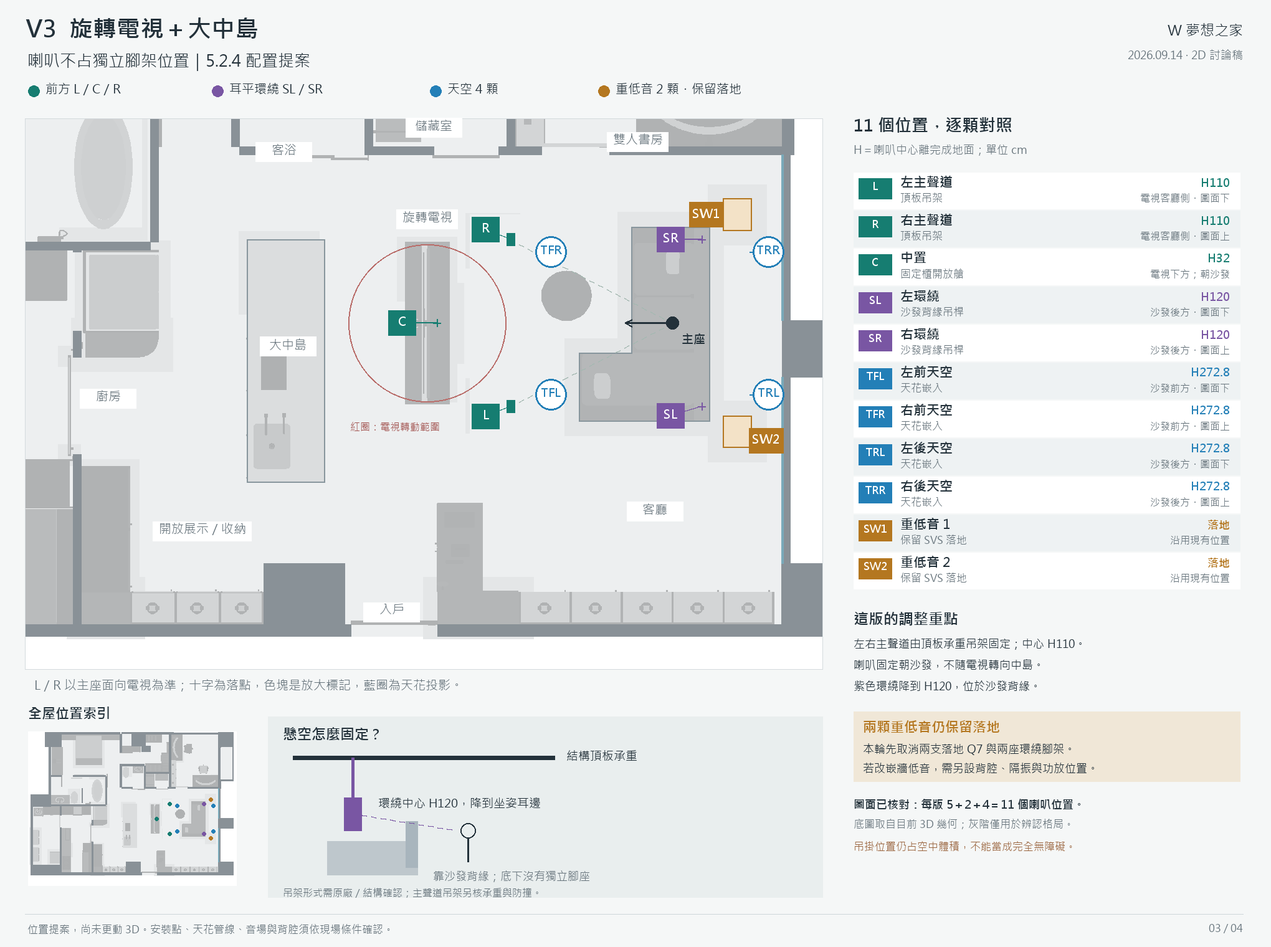
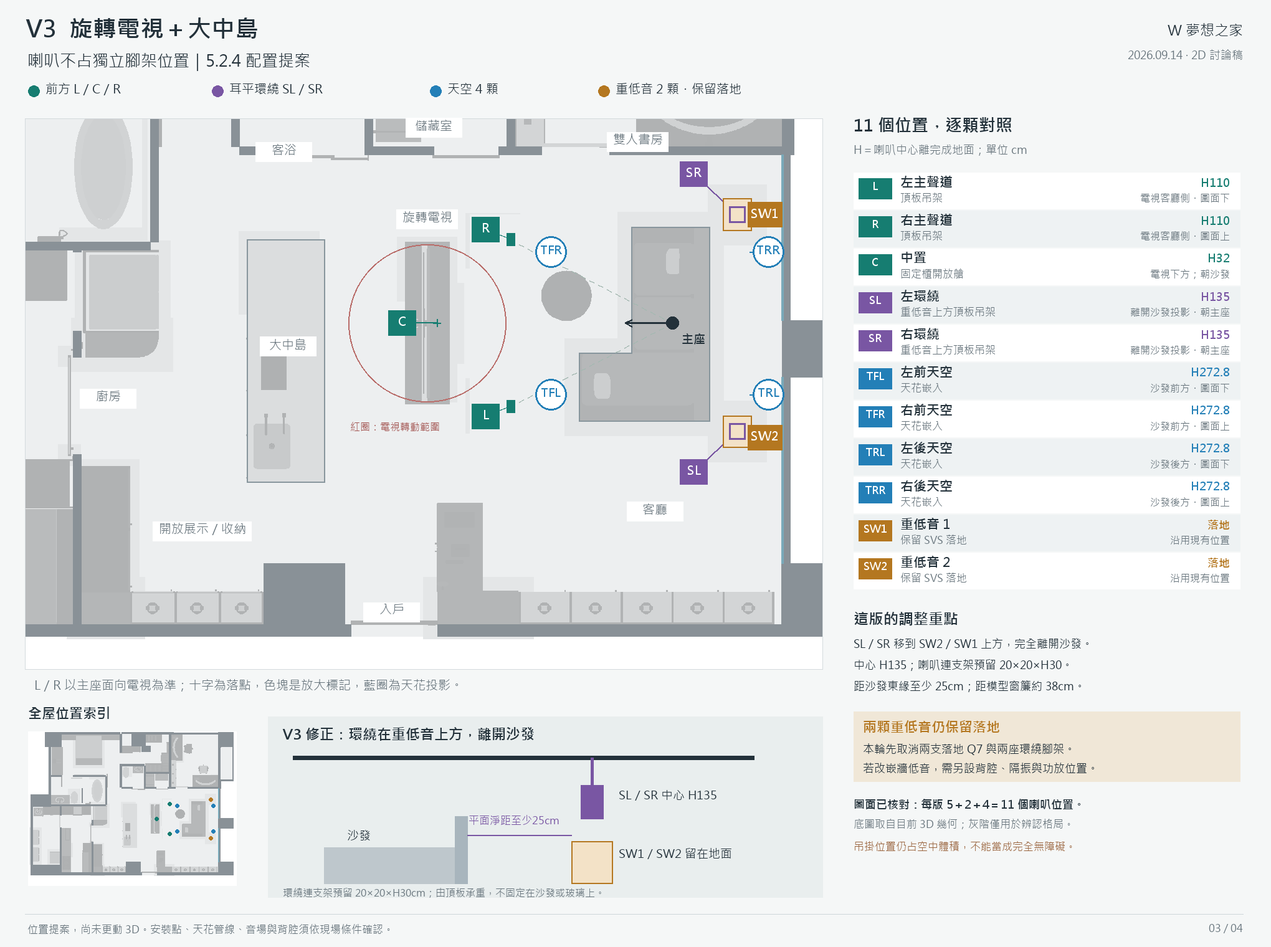
Move V3 proposed surrounds clear of sofa footprint

diff --git a/提案/20260914喇叭配置/index.html b/提案/20260914喇叭配置/index.html
@@ -1,7 +1,7 @@
 <!doctype html><html lang="zh-Hant"><meta charset="utf-8"><meta name="viewport" content="width=device-width, initial-scale=1"><title>四版喇叭配置提案｜W夢想之家</title>
 <style>*{box-sizing:border-box}body{margin:0;background:#10171b;color:#e2e9eb;font-family:system-ui,"Microsoft JhengHei",sans-serif}main{max-width:1800px;margin:auto;padding:28px}h1{font-size:clamp(25px,3vw,38px);margin:10px 0}p{color:#b8c8cc;line-height:1.7}nav{display:flex;gap:9px;flex-wrap:wrap;margin:24px 0}button{padding:13px 18px;border:1px solid #50616b;border-radius:8px;background:#202b32;color:inherit;cursor:pointer;font:inherit}button[aria-pressed=true]{background:#bcd6cf;color:#173c33;border-color:#bcd6cf}figure{margin:0}figure[hidden]{display:none}img{width:100%;height:auto;border-radius:10px}a{color:#8fccc4}figcaption{display:flex;gap:24px;padding:16px 0}aside{padding:16px 22px;background:#242f36;border-radius:10px;margin:22px 0;line-height:1.8}details{margin:22px 0}summary{cursor:pointer;padding:12px}.table{overflow:auto}table{border-collapse:collapse;min-width:900px;width:100%}td,th{text-align:left;padding:10px;border-bottom:1px solid #3a454b}footer{line-height:1.9;margin-top:30px}@media(max-width:650px){main{padding:14px}nav button{font-size:14px}}@media print{body{background:white;color:black}nav,figcaption,details,footer,aside{display:none}figure[hidden]{display:block}figure{break-after:page}}</style>
 <main><a href="../../index.html">← 回到 3D 設計</a><h1>每個版本，每一顆喇叭的位置</h1><p>四張 2D 圖各有 11 個位置：左右主聲道＋中置＋兩顆環繞＋四顆天空＋兩顆重低音。<br>點圖可開啟原尺寸；這是待討論的擺位提案，現有 3D 尚未更換設備。</p><nav aria-label="版本"><button type="button" data-v="1" aria-pressed="true">V1 圓弧中島酒吧＋玄關矮櫃</button><button type="button" data-v="2" aria-pressed="false">V2 旋轉電視＋小中島</button><button type="button" data-v="3" aria-pressed="false">V3 旋轉電視＋大中島</button><button type="button" data-v="4" aria-pressed="false">V4 大中島</button></nav><figure id="v1" ><a href="V1-喇叭配置.png" target="_blank"><img src="V1-喇叭配置.png" width="2040" height="1520" alt="V1 圓弧中島酒吧＋玄關矮櫃，11個喇叭完整位置與安裝方式" ></a><figcaption><a href="V1-喇叭配置.png" download>下載 V1 PNG</a><a href="V1-喇叭配置.svg" download>下載可放大 SVG</a></figcaption></figure><figure id="v2" hidden><a href="V2-喇叭配置.png" target="_blank"><img src="V2-喇叭配置.png" width="2040" height="1520" alt="V2 旋轉電視＋小中島，11個喇叭完整位置與安裝方式" loading=lazy></a><figcaption><a href="V2-喇叭配置.png" download>下載 V2 PNG</a><a href="V2-喇叭配置.svg" download>下載可放大 SVG</a></figcaption></figure><figure id="v3" hidden><a href="V3-喇叭配置.png" target="_blank"><img src="V3-喇叭配置.png" width="2040" height="1520" alt="V3 旋轉電視＋大中島，11個喇叭完整位置與安裝方式" loading=lazy></a><figcaption><a href="V3-喇叭配置.png" download>下載 V3 PNG</a><a href="V3-喇叭配置.svg" download>下載可放大 SVG</a></figcaption></figure><figure id="v4" hidden><a href="V4-喇叭配置.png" target="_blank"><img src="V4-喇叭配置.png" width="2040" height="1520" alt="V4 大中島，11個喇叭完整位置與安裝方式" loading=lazy></a><figcaption><a href="V4-喇叭配置.png" download>下載 V4 PNG</a><a href="V4-喇叭配置.svg" download>下載可放大 SVG</a></figcaption></figure>
-<aside><strong>先取消四個獨立落地腳座位置。</strong>兩顆 SVS 重低音仍保留落地，圖中為橘色 SW1／SW2。<br>落地玻璃不能當承重牆，因此紫色環繞使用頂板吊桿，降到沙發耳邊；藍色天空聲道仍在天花板。V2／V3 綠色主聲道也需獨立承重吊架，固定朝沙發。<br>V1／V4 的嵌入式主聲道需要另外設計裝修層及背腔；不在結構牆直接挖洞。中置仍為開放櫃提案，最終選型需一併核對前方三聲道搭配。</aside>
-<details><summary>全部 44 個位置與高度表</summary><p>座標沿目前模型：X 向圖面右、Y 向圖面下；單位 cm。H 為中心高度，SW 的 0 表示底部落地。符號有放大，十字落點才是配置中心。</p><div class="table"><table><thead><tr><th>版本</th><th>聲道</th><th>X, Y</th><th>H</th><th>安裝</th><th>位置</th></tr></thead><tbody><tr><td>V1</td><td>L 左主聲道</td><td>1062, 944</td><td>105</td><td>南牆裝修層嵌入</td><td>電視左方・圖面右</td></tr><tr><td>V1</td><td>R 右主聲道</td><td>773, 944</td><td>105</td><td>南牆裝修層嵌入</td><td>電視右方・圖面左</td></tr><tr><td>V1</td><td>C 中置</td><td>917.5, 920</td><td>32</td><td>固定櫃開放艙</td><td>電視下方；朝沙發</td></tr><tr><td>V1</td><td>SL 左環繞</td><td>1020, 495</td><td>120</td><td>沙發背緣吊桿</td><td>靠窗側背角</td></tr><tr><td>V1</td><td>SR 右環繞</td><td>812, 495</td><td>120</td><td>沙發背緣吊桿</td><td>靠中島側背角</td></tr><tr><td>V1</td><td>TFL 左前天空</td><td>1005, 700</td><td>272.8</td><td>天花嵌入</td><td>沙發前方・圖面右</td></tr><tr><td>V1</td><td>TFR 右前天空</td><td>830, 700</td><td>272.8</td><td>天花嵌入</td><td>沙發前方・圖面左</td></tr><tr><td>V1</td><td>TRL 左後天空</td><td>1005, 415</td><td>272.8</td><td>天花嵌入</td><td>沙發後方・圖面右</td></tr><tr><td>V1</td><td>TRR 右後天空</td><td>830, 415</td><td>272.8</td><td>天花嵌入</td><td>沙發後方・圖面左</td></tr><tr><td>V1</td><td>SW1 重低音 1</td><td>788, 837</td><td>0</td><td>保留 SVS 落地</td><td>沿用現有位置</td></tr><tr><td>V1</td><td>SW2 重低音 2</td><td>1057, 820</td><td>0</td><td>保留 SVS 落地</td><td>沿用現有位置</td></tr><tr><td>V2</td><td>L 左主聲道</td><td>750, 663</td><td>110</td><td>頂板吊架</td><td>電視客廳側・圖面下</td></tr><tr><td>V2</td><td>R 右主聲道</td><td>750, 457</td><td>110</td><td>頂板吊架</td><td>電視客廳側・圖面上</td></tr><tr><td>V2</td><td>C 中置</td><td>659.35, 560</td><td>32</td><td>固定櫃開放艙</td><td>電視下方；朝沙發</td></tr><tr><td>V2</td><td>SL 左環繞</td><td>986, 686</td><td>120</td><td>沙發背緣吊桿</td><td>沙發後方・圖面下</td></tr><tr><td>V2</td><td>SR 右環繞</td><td>986, 480</td><td>120</td><td>沙發背緣吊桿</td><td>沙發後方・圖面上</td></tr><tr><td>V2</td><td>TFL 左前天空</td><td>800, 648</td><td>272.8</td><td>天花嵌入</td><td>沙發前方・圖面下</td></tr><tr><td>V2</td><td>TFR 右前天空</td><td>800, 472</td><td>272.8</td><td>天花嵌入</td><td>沙發前方・圖面上</td></tr><tr><td>V2</td><td>TRL 左後天空</td><td>1050, 648</td><td>272.8</td><td>天花嵌入</td><td>沙發後方・圖面下</td></tr><tr><td>V2</td><td>TRR 右後天空</td><td>1050, 472</td><td>272.8</td><td>天花嵌入</td><td>沙發後方・圖面上</td></tr><tr><td>V2</td><td>SW1 重低音 1</td><td>799, 800</td><td>0</td><td>保留 SVS 落地</td><td>沿用現有位置</td></tr><tr><td>V2</td><td>SW2 重低音 2</td><td>1040, 814</td><td>0</td><td>保留 SVS 落地</td><td>沿用現有位置</td></tr><tr><td>V3</td><td>L 左主聲道</td><td>750, 686</td><td>110</td><td>頂板吊架</td><td>電視客廳側・圖面下</td></tr><tr><td>V3</td><td>R 右主聲道</td><td>750, 480</td><td>110</td><td>頂板吊架</td><td>電視客廳側・圖面上</td></tr><tr><td>V3</td><td>C 中置</td><td>659.35, 583</td><td>32</td><td>固定櫃開放艙</td><td>電視下方；朝沙發</td></tr><tr><td>V3</td><td>SL 左環繞</td><td>986, 686</td><td>120</td><td>沙發背緣吊桿</td><td>沙發後方・圖面下</td></tr><tr><td>V3</td><td>SR 右環繞</td><td>986, 480</td><td>120</td><td>沙發背緣吊桿</td><td>沙發後方・圖面上</td></tr><tr><td>V3</td><td>TFL 左前天空</td><td>800, 671</td><td>272.8</td><td>天花嵌入</td><td>沙發前方・圖面下</td></tr><tr><td>V3</td><td>TFR 右前天空</td><td>800, 495</td><td>272.8</td><td>天花嵌入</td><td>沙發前方・圖面上</td></tr><tr><td>V3</td><td>TRL 左後天空</td><td>1050, 671</td><td>272.8</td><td>天花嵌入</td><td>沙發後方・圖面下</td></tr><tr><td>V3</td><td>TRR 右後天空</td><td>1050, 495</td><td>272.8</td><td>天花嵌入</td><td>沙發後方・圖面上</td></tr><tr><td>V3</td><td>SW1 重低音 1</td><td>1030, 449</td><td>0</td><td>保留 SVS 落地</td><td>沿用現有位置</td></tr><tr><td>V3</td><td>SW2 重低音 2</td><td>1030, 717</td><td>0</td><td>保留 SVS 落地</td><td>沿用現有位置</td></tr><tr><td>V4</td><td>L 左主聲道</td><td>1062, 944</td><td>105</td><td>南牆裝修層嵌入</td><td>電視左方・圖面右</td></tr><tr><td>V4</td><td>R 右主聲道</td><td>773, 944</td><td>105</td><td>南牆裝修層嵌入</td><td>電視右方・圖面左</td></tr><tr><td>V4</td><td>C 中置</td><td>917.5, 920</td><td>32</td><td>固定櫃開放艙</td><td>電視下方；朝沙發</td></tr><tr><td>V4</td><td>SL 左環繞</td><td>1020, 545</td><td>120</td><td>沙發背緣吊桿</td><td>靠窗側背角</td></tr><tr><td>V4</td><td>SR 右環繞</td><td>812, 545</td><td>120</td><td>沙發背緣吊桿</td><td>靠中島側背角</td></tr><tr><td>V4</td><td>TFL 左前天空</td><td>1005, 775</td><td>272.8</td><td>天花嵌入</td><td>沙發前方・圖面右</td></tr><tr><td>V4</td><td>TFR 右前天空</td><td>830, 775</td><td>272.8</td><td>天花嵌入</td><td>沙發前方・圖面左</td></tr><tr><td>V4</td><td>TRL 左後天空</td><td>1005, 425</td><td>272.8</td><td>天花嵌入</td><td>沙發後方・圖面右</td></tr><tr><td>V4</td><td>TRR 右後天空</td><td>830, 425</td><td>272.8</td><td>天花嵌入</td><td>沙發後方・圖面左</td></tr><tr><td>V4</td><td>SW1 重低音 1</td><td>788, 929</td><td>0</td><td>保留 SVS 落地</td><td>沿用現有位置</td></tr><tr><td>V4</td><td>SW2 重低音 2</td><td>1055, 929</td><td>0</td><td>保留 SVS 落地</td><td>沿用現有位置</td></tr></tbody></table></div></details>
+<aside><strong>V3 已修正：</strong>SL／SR 已移出沙發投影，分別吊在 SW2／SW1 上方，中心 H135。<a href="V3-環繞位置修正.png">查看平面淨距與側面高度</a>。<br><strong>先取消四個獨立落地腳座位置。</strong>兩顆 SVS 重低音仍保留落地，圖中為橘色 SW1／SW2。<br>落地玻璃不能當承重牆，因此紫色環繞使用頂板吊架；V3 移至沙發外側的低音設備區，其他版本維持原討論稿。藍色天空聲道仍在天花板。V2／V3 綠色主聲道也需獨立承重吊架，固定朝沙發。<br>V1／V4 的嵌入式主聲道需要另外設計裝修層及背腔；不在結構牆直接挖洞。中置仍為開放櫃提案，最終選型需一併核對前方三聲道搭配。</aside>
+<details><summary>全部 44 個位置與高度表</summary><p>座標沿目前模型：X 向圖面右、Y 向圖面下；單位 cm。H 為中心高度，SW 的 0 表示底部落地。符號有放大，十字落點才是配置中心。</p><div class="table"><table><thead><tr><th>版本</th><th>聲道</th><th>X, Y</th><th>H</th><th>安裝</th><th>位置</th></tr></thead><tbody><tr><td>V1</td><td>L 左主聲道</td><td>1062, 944</td><td>105</td><td>南牆裝修層嵌入</td><td>電視左方・圖面右</td></tr><tr><td>V1</td><td>R 右主聲道</td><td>773, 944</td><td>105</td><td>南牆裝修層嵌入</td><td>電視右方・圖面左</td></tr><tr><td>V1</td><td>C 中置</td><td>917.5, 920</td><td>32</td><td>固定櫃開放艙</td><td>電視下方；朝沙發</td></tr><tr><td>V1</td><td>SL 左環繞</td><td>1020, 495</td><td>120</td><td>沙發背緣吊桿</td><td>靠窗側背角</td></tr><tr><td>V1</td><td>SR 右環繞</td><td>812, 495</td><td>120</td><td>沙發背緣吊桿</td><td>靠中島側背角</td></tr><tr><td>V1</td><td>TFL 左前天空</td><td>1005, 700</td><td>272.8</td><td>天花嵌入</td><td>沙發前方・圖面右</td></tr><tr><td>V1</td><td>TFR 右前天空</td><td>830, 700</td><td>272.8</td><td>天花嵌入</td><td>沙發前方・圖面左</td></tr><tr><td>V1</td><td>TRL 左後天空</td><td>1005, 415</td><td>272.8</td><td>天花嵌入</td><td>沙發後方・圖面右</td></tr><tr><td>V1</td><td>TRR 右後天空</td><td>830, 415</td><td>272.8</td><td>天花嵌入</td><td>沙發後方・圖面左</td></tr><tr><td>V1</td><td>SW1 重低音 1</td><td>788, 837</td><td>0</td><td>保留 SVS 落地</td><td>沿用現有位置</td></tr><tr><td>V1</td><td>SW2 重低音 2</td><td>1057, 820</td><td>0</td><td>保留 SVS 落地</td><td>沿用現有位置</td></tr><tr><td>V2</td><td>L 左主聲道</td><td>750, 663</td><td>110</td><td>頂板吊架</td><td>電視客廳側・圖面下</td></tr><tr><td>V2</td><td>R 右主聲道</td><td>750, 457</td><td>110</td><td>頂板吊架</td><td>電視客廳側・圖面上</td></tr><tr><td>V2</td><td>C 中置</td><td>659.35, 560</td><td>32</td><td>固定櫃開放艙</td><td>電視下方；朝沙發</td></tr><tr><td>V2</td><td>SL 左環繞</td><td>986, 686</td><td>120</td><td>沙發背緣吊桿</td><td>沙發後方・圖面下</td></tr><tr><td>V2</td><td>SR 右環繞</td><td>986, 480</td><td>120</td><td>沙發背緣吊桿</td><td>沙發後方・圖面上</td></tr><tr><td>V2</td><td>TFL 左前天空</td><td>800, 648</td><td>272.8</td><td>天花嵌入</td><td>沙發前方・圖面下</td></tr><tr><td>V2</td><td>TFR 右前天空</td><td>800, 472</td><td>272.8</td><td>天花嵌入</td><td>沙發前方・圖面上</td></tr><tr><td>V2</td><td>TRL 左後天空</td><td>1050, 648</td><td>272.8</td><td>天花嵌入</td><td>沙發後方・圖面下</td></tr><tr><td>V2</td><td>TRR 右後天空</td><td>1050, 472</td><td>272.8</td><td>天花嵌入</td><td>沙發後方・圖面上</td></tr><tr><td>V2</td><td>SW1 重低音 1</td><td>799, 800</td><td>0</td><td>保留 SVS 落地</td><td>沿用現有位置</td></tr><tr><td>V2</td><td>SW2 重低音 2</td><td>1040, 814</td><td>0</td><td>保留 SVS 落地</td><td>沿用現有位置</td></tr><tr><td>V3</td><td>L 左主聲道</td><td>750, 686</td><td>110</td><td>頂板吊架</td><td>電視客廳側・圖面下</td></tr><tr><td>V3</td><td>R 右主聲道</td><td>750, 480</td><td>110</td><td>頂板吊架</td><td>電視客廳側・圖面上</td></tr><tr><td>V3</td><td>C 中置</td><td>659.35, 583</td><td>32</td><td>固定櫃開放艙</td><td>電視下方；朝沙發</td></tr><tr><td>V3</td><td>SL 左環繞</td><td>1030, 717</td><td>135</td><td>重低音上方頂板吊架</td><td>離開沙發投影・朝主座</td></tr><tr><td>V3</td><td>SR 右環繞</td><td>1030, 449</td><td>135</td><td>重低音上方頂板吊架</td><td>離開沙發投影・朝主座</td></tr><tr><td>V3</td><td>TFL 左前天空</td><td>800, 671</td><td>272.8</td><td>天花嵌入</td><td>沙發前方・圖面下</td></tr><tr><td>V3</td><td>TFR 右前天空</td><td>800, 495</td><td>272.8</td><td>天花嵌入</td><td>沙發前方・圖面上</td></tr><tr><td>V3</td><td>TRL 左後天空</td><td>1050, 671</td><td>272.8</td><td>天花嵌入</td><td>沙發後方・圖面下</td></tr><tr><td>V3</td><td>TRR 右後天空</td><td>1050, 495</td><td>272.8</td><td>天花嵌入</td><td>沙發後方・圖面上</td></tr><tr><td>V3</td><td>SW1 重低音 1</td><td>1030, 449</td><td>0</td><td>保留 SVS 落地</td><td>沿用現有位置</td></tr><tr><td>V3</td><td>SW2 重低音 2</td><td>1030, 717</td><td>0</td><td>保留 SVS 落地</td><td>沿用現有位置</td></tr><tr><td>V4</td><td>L 左主聲道</td><td>1062, 944</td><td>105</td><td>南牆裝修層嵌入</td><td>電視左方・圖面右</td></tr><tr><td>V4</td><td>R 右主聲道</td><td>773, 944</td><td>105</td><td>南牆裝修層嵌入</td><td>電視右方・圖面左</td></tr><tr><td>V4</td><td>C 中置</td><td>917.5, 920</td><td>32</td><td>固定櫃開放艙</td><td>電視下方；朝沙發</td></tr><tr><td>V4</td><td>SL 左環繞</td><td>1020, 545</td><td>120</td><td>沙發背緣吊桿</td><td>靠窗側背角</td></tr><tr><td>V4</td><td>SR 右環繞</td><td>812, 545</td><td>120</td><td>沙發背緣吊桿</td><td>靠中島側背角</td></tr><tr><td>V4</td><td>TFL 左前天空</td><td>1005, 775</td><td>272.8</td><td>天花嵌入</td><td>沙發前方・圖面右</td></tr><tr><td>V4</td><td>TFR 右前天空</td><td>830, 775</td><td>272.8</td><td>天花嵌入</td><td>沙發前方・圖面左</td></tr><tr><td>V4</td><td>TRL 左後天空</td><td>1005, 425</td><td>272.8</td><td>天花嵌入</td><td>沙發後方・圖面右</td></tr><tr><td>V4</td><td>TRR 右後天空</td><td>830, 425</td><td>272.8</td><td>天花嵌入</td><td>沙發後方・圖面左</td></tr><tr><td>V4</td><td>SW1 重低音 1</td><td>788, 929</td><td>0</td><td>保留 SVS 落地</td><td>沿用現有位置</td></tr><tr><td>V4</td><td>SW2 重低音 2</td><td>1055, 929</td><td>0</td><td>保留 SVS 落地</td><td>沿用現有位置</td></tr></tbody></table></div></details>
 <footer>產品方向與依據：<a href="https://ca.kef.com/products/ci3160rlm">KEF 嵌牆主聲道</a> · <a href="https://www.focal.com/products/on-wall-302">Focal 薄型壁掛產品</a> · <a href="https://www.dolby.com/siteassets/technologies/dolby-atmos/atmos-installation-guidelines-121318_r3.1.pdf">Dolby 家用聲道配置指引</a><br>吊架是本案安裝設計方向，並非宣稱 Focal 原廠允許直接吊掛；最終承重構造、機種與原廠安裝條件需核對。天空位置尚須協調樑、吊隱冷氣及檢修孔。<br>2026-09-14 · <a href="位置表.json">下載位置資料</a> · <a href="四版總覽.png">查看四版總覽圖</a></footer></main>
 <script>for(const b of document.querySelectorAll('[data-v]'))b.addEventListener('click',()=>{document.querySelectorAll('[data-v]').forEach(x=>x.setAttribute('aria-pressed',String(x===b)));document.querySelectorAll('figure').forEach(x=>x.hidden=x.id!=='v'+b.dataset.v);});</script></html>

diff --git a/tools/build-speaker-proposal.py b/tools/build-speaker-proposal.py
@@ -36,9 +36,12 @@ def proposal(v):
             if q['id']=='SL':q['y']=686
     if v==3:
         for q in rows:
-            if q['id']=='SR':q['labelOffset']=[-50,0]
-            if q['id']=='SL':q['labelOffset']=[-50,15]
+            if q['id'] in ('SR','SL'):
+                q.update(x=1030,y=449 if q['id']=='SR' else 717,h=135,mount='重低音上方頂板吊架',where='離開沙發投影・朝主座',labelOffset=[-70,-65 if q['id']=='SR' else 65],envelope=dict(w=20,d=20,h=30,bottom=120),envelopeNote='小型環繞連支架的配置預留上限；機種及原廠固定條件待選定')
+            if q['id']=='SW1':q['labelOffset']=[44,0]
+            if q['id']=='SW2':q['labelOffset']=[44,10]
     notes=(['左右主聲道整合南牆裝修層；牆內背腔另設計。','中置保留開放艙，抬高至中心 H32，向主座上仰。','環繞吊桿位於沙發背緣；不以落地玻璃承重。'] if not rotating else ['左右主聲道由頂板承重吊架固定；中心 H110。','喇叭固定朝沙發，不隨電視轉向中島。','紫色環繞降到 H120，位於沙發背緣。'])
+    if v==3:notes=['SL／SR 移到 SW2／SW1 上方，完全離開沙發。','中心 H135；喇叭連支架預留 20×20×H30。','距沙發東緣至少 25cm；距模型窗簾約 38cm。']
     return dict(version=f'V{v}',title=TITLES[v-1],rotating=rotating,listener=ear,tv=[647,cy] if rotating else [917.5,948.6],speakers=rows,notes=notes,status='2D 討論提案；尚未套用 3D 或確認安裝結構',sourceCommit=json.loads((OUT/f'source-v{v}.json').read_text())['sourceCommit'])
 
 class Canvas:
@@ -135,6 +138,7 @@ def diagram(config):
         if dx or dy:d.line([(x,y),(lx,ly)],co,2)
         if q['category']=='sub':
             d.rect(x-18*s,y-19.75*s,36*s,39.5*s,'#f3e2c7',co,2)
+            if v==3:d.rect(x-10*s,y-10*s,20*s,20*s,None,COLORS['surround'],3)
         elif q['id'] in ('L','R'):
             d.rect(x-5*s,y-7.75*s,10*s,15.5*s,co) if config['rotating'] else d.rect(x-12*s,y-4*s,24*s,8*s,co)
         if q['category']=='top':
@@ -142,16 +146,27 @@ def diagram(config):
         else:
             bw=55 if q['category']=='sub' else 44;d.rect(lx-bw/2,ly-20,bw,40,co);d.text(lx,ly-11,q['id'],20,'#ffffff',True,'middle')
     d.text(55,1090,'L／R 以主座面向電視為準；十字為落點，色塊是放大標記，藍圈為天花投影。',20,MUTED)
-    # Explicit installation diagram prevents interpreting hung speakers as ceiling channels.
-    d.rect(430,1150,890,290,'#e9eeee');d.text(454,1167,'懸空怎麼固定？',23,bold=True)
-    d.line([(470,1216),(890,1216)],INK,7);d.text(909,1204,'結構頂板承重',19)
-    d.line([(566,1216),(566,1280)],COLORS['surround'],5)
-    d.rect(552,1280,28,53,COLORS['surround']);d.text(607,1280,'環繞中心 H120，降到坐姿耳邊',19)
-    d.rect(525,1350,145,54,'#bec7cc');d.rect(651,1318,19,74,'#a8b5bd')
-    d.circle(751,1333,12,None,INK);d.line([(751,1345),(751,1383)],INK,3)
-    d.line([(566,1306),(733,1333)],COLORS['surround'],2,True)
-    d.text(695,1397,'靠沙發背緣；底下沒有獨立腳座',18,MUTED)
-    d.text(454,1425,'吊架形式需原廠／結構確認；主聲道吊架另核承重與防撞。',16,MUTED)
+    # A separate section makes the V3 shared plan position explicit.
+    if v==3:
+        d.rect(430,1150,890,290,'#e9eeee');d.text(454,1167,'V3 修正：環繞在重低音上方，離開沙發',23,bold=True)
+        d.line([(470,1216),(1210,1216)],INK,7)
+        d.line([(950,1216),(950,1260)],COLORS['surround'],5)
+        d.rect(932,1260,36,54,COLORS['surround']);d.text(993,1268,'SL／SR 中心 H135',19)
+        d.rect(917,1350,66,68,'#f3e2c7',COLORS['sub'],2);d.text(993,1361,'SW1／SW2 留在地面',19)
+        d.rect(520,1360,230,58,'#bec7cc');d.rect(730,1310,20,108,'#a8b5bd')
+        d.text(557,1332,'沙發',19);d.line([(750,1340),(917,1340)],COLORS['surround'],2)
+        d.text(825,1308,'平面淨距至少25cm',17,COLORS['surround'],anchor='middle')
+        d.text(454,1425,'環繞連支架預留 20×20×H30cm；由頂板承重，不固定在沙發或玻璃上。',16,MUTED)
+    else:
+        d.rect(430,1150,890,290,'#e9eeee');d.text(454,1167,'懸空怎麼固定？',23,bold=True)
+        d.line([(470,1216),(890,1216)],INK,7);d.text(909,1204,'結構頂板承重',19)
+        d.line([(566,1216),(566,1280)],COLORS['surround'],5)
+        d.rect(552,1280,28,53,COLORS['surround']);d.text(607,1280,'環繞中心 H120，降到坐姿耳邊',19)
+        d.rect(525,1350,145,54,'#bec7cc');d.rect(651,1318,19,74,'#a8b5bd')
+        d.circle(751,1333,12,None,INK);d.line([(751,1345),(751,1383)],INK,3)
+        d.line([(566,1306),(733,1333)],COLORS['surround'],2,True)
+        d.text(695,1397,'靠沙發背緣；底下沒有獨立腳座',18,MUTED)
+        d.text(454,1425,'吊架形式需原廠／結構確認；主聲道吊架另核承重與防撞。',16,MUTED)
     mini,_=base_plan(source,335,248,(-230,-20,1210,1045));d.image(mini,45,1174)
     d.text(45,1134,'全屋位置索引',22,bold=True)
     for q in config['speakers']:
@@ -190,11 +205,61 @@ def build_page(configs):
     page=f'''<!doctype html><html lang="zh-Hant"><meta charset="utf-8"><meta name="viewport" content="width=device-width, initial-scale=1"><title>四版喇叭配置提案｜W夢想之家</title>
 <style>*{{box-sizing:border-box}}body{{margin:0;background:#10171b;color:#e2e9eb;font-family:system-ui,"Microsoft JhengHei",sans-serif}}main{{max-width:1800px;margin:auto;padding:28px}}h1{{font-size:clamp(25px,3vw,38px);margin:10px 0}}p{{color:#b8c8cc;line-height:1.7}}nav{{display:flex;gap:9px;flex-wrap:wrap;margin:24px 0}}button{{padding:13px 18px;border:1px solid #50616b;border-radius:8px;background:#202b32;color:inherit;cursor:pointer;font:inherit}}button[aria-pressed=true]{{background:#bcd6cf;color:#173c33;border-color:#bcd6cf}}figure{{margin:0}}figure[hidden]{{display:none}}img{{width:100%;height:auto;border-radius:10px}}a{{color:#8fccc4}}figcaption{{display:flex;gap:24px;padding:16px 0}}aside{{padding:16px 22px;background:#242f36;border-radius:10px;margin:22px 0;line-height:1.8}}details{{margin:22px 0}}summary{{cursor:pointer;padding:12px}}.table{{overflow:auto}}table{{border-collapse:collapse;min-width:900px;width:100%}}td,th{{text-align:left;padding:10px;border-bottom:1px solid #3a454b}}footer{{line-height:1.9;margin-top:30px}}@media(max-width:650px){{main{{padding:14px}}nav button{{font-size:14px}}}}@media print{{body{{background:white;color:black}}nav,figcaption,details,footer,aside{{display:none}}figure[hidden]{{display:block}}figure{{break-after:page}}}}</style>
 <main><a href="../../index.html">← 回到 3D 設計</a><h1>每個版本，每一顆喇叭的位置</h1><p>四張 2D 圖各有 11 個位置：左右主聲道＋中置＋兩顆環繞＋四顆天空＋兩顆重低音。<br>點圖可開啟原尺寸；這是待討論的擺位提案，現有 3D 尚未更換設備。</p><nav aria-label="版本">{buttons}</nav>{figures}
-<aside><strong>先取消四個獨立落地腳座位置。</strong>兩顆 SVS 重低音仍保留落地，圖中為橘色 SW1／SW2。<br>落地玻璃不能當承重牆，因此紫色環繞使用頂板吊桿，降到沙發耳邊；藍色天空聲道仍在天花板。V2／V3 綠色主聲道也需獨立承重吊架，固定朝沙發。<br>V1／V4 的嵌入式主聲道需要另外設計裝修層及背腔；不在結構牆直接挖洞。中置仍為開放櫃提案，最終選型需一併核對前方三聲道搭配。</aside>
+<aside><strong>V3 已修正：</strong>SL／SR 已移出沙發投影，分別吊在 SW2／SW1 上方，中心 H135。<a href="V3-環繞位置修正.png">查看平面淨距與側面高度</a>。<br><strong>先取消四個獨立落地腳座位置。</strong>兩顆 SVS 重低音仍保留落地，圖中為橘色 SW1／SW2。<br>落地玻璃不能當承重牆，因此紫色環繞使用頂板吊架；V3 移至沙發外側的低音設備區，其他版本維持原討論稿。藍色天空聲道仍在天花板。V2／V3 綠色主聲道也需獨立承重吊架，固定朝沙發。<br>V1／V4 的嵌入式主聲道需要另外設計裝修層及背腔；不在結構牆直接挖洞。中置仍為開放櫃提案，最終選型需一併核對前方三聲道搭配。</aside>
 <details><summary>全部 44 個位置與高度表</summary><p>座標沿目前模型：X 向圖面右、Y 向圖面下；單位 cm。H 為中心高度，SW 的 0 表示底部落地。符號有放大，十字落點才是配置中心。</p><div class="table"><table><thead><tr><th>版本</th><th>聲道</th><th>X, Y</th><th>H</th><th>安裝</th><th>位置</th></tr></thead><tbody>{rows}</tbody></table></div></details>
 <footer>產品方向與依據：<a href="https://ca.kef.com/products/ci3160rlm">KEF 嵌牆主聲道</a> · <a href="https://www.focal.com/products/on-wall-302">Focal 薄型壁掛產品</a> · <a href="https://www.dolby.com/siteassets/technologies/dolby-atmos/atmos-installation-guidelines-121318_r3.1.pdf">Dolby 家用聲道配置指引</a><br>吊架是本案安裝設計方向，並非宣稱 Focal 原廠允許直接吊掛；最終承重構造、機種與原廠安裝條件需核對。天空位置尚須協調樑、吊隱冷氣及檢修孔。<br>2026-09-14 · <a href="位置表.json">下載位置資料</a> · <a href="四版總覽.png">查看四版總覽圖</a></footer></main>
 <script>for(const b of document.querySelectorAll('[data-v]'))b.addEventListener('click',()=>{{document.querySelectorAll('[data-v]').forEach(x=>x.setAttribute('aria-pressed',String(x===b)));document.querySelectorAll('figure').forEach(x=>x.hidden=x.id!=='v'+b.dataset.v);}});</script></html>'''
     (OUT/'index.html').write_bytes(page.encode())
+
+def surround_detail(config):
+    d=Canvas(1780,1100);co=COLORS['surround'];orange=COLORS['sub'];red='#b36360'
+    d.text(42,26,'V3 環繞修正｜離開沙發，集中到低音設備區上方',34,bold=True)
+    d.text(44,82,'SL＝左環繞；SR＝右環繞。原吊點落在沙發投影內，這次移到兩顆重低音正上方。',22,MUTED)
+    d.text(45,135,'平面位置與淨距',25,bold=True);d.text(907,135,'側面投影與安裝高度',25,bold=True)
+    source=json.loads((OUT/'source-v3.json').read_text());im,s=base_plan(source,730,740,(795,375,1155,775));d.image(im,45,178)
+    p=lambda x,y:(45+(x-795)*s,178+(y-375)*s)
+    sofa=[[900,464],[995,464],[995,704],[835,704],[835,620],[900,620]]
+    d.line([p(*q) for q in sofa+[sofa[0]]],'#88969d',3)
+    d.text(*p(908,570),'沙發不移動',21,MUTED)
+    # This line is the innermost modeled curtain fold, not a structural mounting line.
+    d.line([p(1078.1,390),p(1078.1,565)],'#478795',3,True)
+    d.line([p(1078.1,665),p(1078.1,765)],'#478795',3,True)
+    d.text(*p(1088,420),'窗簾',20,'#478795')
+    for sid,subid,yy,oldy in [('SR','SW1',449,480),('SL','SW2',717,686)]:
+        x,y=p(1030,yy);old=p(986,oldy)
+        d.line([(old[0]-7,old[1]-7),(old[0]+7,old[1]+7)],red,3);d.line([(old[0]-7,old[1]+7),(old[0]+7,old[1]-7)],red,3)
+        arrow(d,old,(x-19,y),red,2)
+        d.rect(x-18*s,y-19.75*s,36*s,39.5*s,'#f3e2c7',orange,2)
+        d.rect(x-10*s,y-10*s,20*s,20*s,co)
+        d.text(x,y-10,sid,18,'#ffffff',True,'middle')
+        d.text(x-40,y-64 if sid=='SR' else y+50,subid+' 落地／'+sid+' 在上方',19,co,True,'middle')
+    def dimension(a,b,label):
+        aa,bb=p(*a),p(*b);d.line([aa,bb],co,2)
+        for x,y in [aa,bb]:d.line([(x,y-6),(x,y+6)],co,2)
+        d.text((aa[0]+bb[0])/2,aa[1]-27,label,19,co,True,'middle')
+    dimension((995,535),(1020,535),'25cm')
+    dimension((1040,535),(1078.1,535),'約38cm')
+    d.text(53,933,'紅色叉：原吊點（取消）',20,red);d.text(53,967,'紫色：上方環繞；橘色：地面重低音，兩者垂直疊置。',20)
+    # Dimensioned schematic projection: depth x follows the source model, H is above FFL.
+    zx=lambda x:1270+(x-995)*1.8;zy=lambda z:785-z*1.8
+    d.line([(950,zy(275)),(1660,zy(275))],INK,7);d.text(1000,zy(275)-40,'固定到結構頂板，另設承重與安全固定',21)
+    d.line([(950,785),(1660,785)],INK,3)
+    d.rect(zx(900),zy(48),95*1.8,48*1.8,'#b7c2c8');d.rect(zx(977),zy(84),18*1.8,84*1.8,'#94a6b0')
+    d.text(zx(900),803,'沙發',21)
+    d.line([(zx(1030),zy(275)),(zx(1030),zy(150))],co,5)
+    d.rect(zx(1020),zy(150),20*1.8,30*1.8,co)
+    d.line([(zx(1030),zy(135)),(1510,zy(135))],co,2,True);d.text(1515,zy(135)-12,'中心 135cm',22,co,True)
+    d.text(1460,zy(120)+15,'底部 120cm',19,co)
+    d.rect(zx(1012),zy(37.2),36*1.8,37.2*1.8,'#f3e2c7',orange,2)
+    d.text(1460,zy(37.2)+16,'原重低音 H37.2',21,orange)
+    d.line([(zx(1078.1),zy(240)),(zx(1078.1),785)],'#478795',3,True)
+    d.text(zx(1078.1)+14,zy(235),'窗簾',19,'#478795')
+    d.text(938,862,'喇叭連支架預留：20×20×高30cm；型號待選。',22)
+    d.text(938,902,'吊桿也位於重低音投影內，不在沙發或玻璃上受力。',20)
+    d.text(938,941,'主座到環繞平面距離約156cm，左右對稱。',20)
+    d.line([(43,1015),(1730,1015)],'#cdd6d9',1)
+    d.text(45,1038,'本圖為 2D 修正提案；25／38cm 依模型及預留包絡計算，實際喇叭、吊架與窗簾須複核。3D 尚未更換。',19,MUTED)
+    d.save('V3-環繞位置修正')
 
 configs=[proposal(v) for v in range(1,5)]
 for c in configs:
@@ -211,9 +276,17 @@ for c in configs:
     if c['rotating']:
         for q in c['speakers']:
             if q['id'] in ('L','R'):assert math.hypot(q['x']-c['tv'][0],q['y']-c['tv'][1])-10>97.5
+    if c['version']=='V3':
+        for q in c['speakers']:
+            if q['id'] not in ('SL','SR'):continue
+            e=q['envelope'];assert q['x']-e['w']/2-995>=25
+            assert 1078.1-(q['x']+e['w']/2)>=38
+            sub=next(x for x in c['speakers'] if x['id']==('SW1' if q['id']=='SR' else 'SW2'))
+            assert (q['x'],q['y'])==(sub['x'],sub['y']) and e['w']<=36 and e['d']<=39.5
     diagram(c)
 (OUT/'位置表.json').write_bytes((json.dumps(dict(date='2026-09-14',units='cm',purpose='2D speaker-location proposal only',versions=configs),ensure_ascii=False,indent=2)+'\n').encode())
 build_page(configs)
+surround_detail(configs[2])
 # Four public-area maps, large enough to identify all channels without the schedules.
 ov=Canvas(2080,1620);ov.text(38,25,'四版喇叭位置總覽',34,bold=True);ov.text(2040,34,'44 個位置・每版 5.2.4',22,MUTED,anchor='end')
 for x,key,label in [(42,'front','綠：前方 L／C／R'),(430,'surround','紫：耳平環繞 SL／SR'),(870,'top','藍：天花天空聲道'),(1250,'sub','橘：重低音 SW1／SW2（保留落地）')]:

diff --git a/README.md b/README.md
@@ -2,6 +2,8 @@
 
 ## 2026-09-14 四版喇叭位置提案
 
+V3 後續修正：[環繞淨距與高度圖](提案/20260914喇叭配置/V3-環繞位置修正.png)。原 SL／SR 吊點取消，改到兩顆重低音正上方；中心 H135，含支架暫留20×20×H30。預留包絡距沙發東緣25cm、距模型窗簾約38cm，機種與固定條件待選。
+
 [開啟四版 2D 喇叭配置](提案/20260914喇叭配置/index.html)：每版 11 個位置、安裝方式與中心高度，含 PNG／SVG、四版總覽及 44 筆位置表。這是討論稿，未改動四版即時 3D；先取消 Q7 與環繞的四個獨立腳架位置，兩顆 SVS 仍保留落地。落地玻璃旁改以沙發背緣吊桿提案，固定版前聲道整合裝修牆，旋轉版另設固定吊架。
 
 重建圖面：先執行 `node tools/export-speaker-plan.cjs` 匯出現有模型，再執行 `python -X utf8 tools/build-speaker-proposal.py`。中間的 source-v*.json 僅留本機；發布僅包含成品與重建程式。
